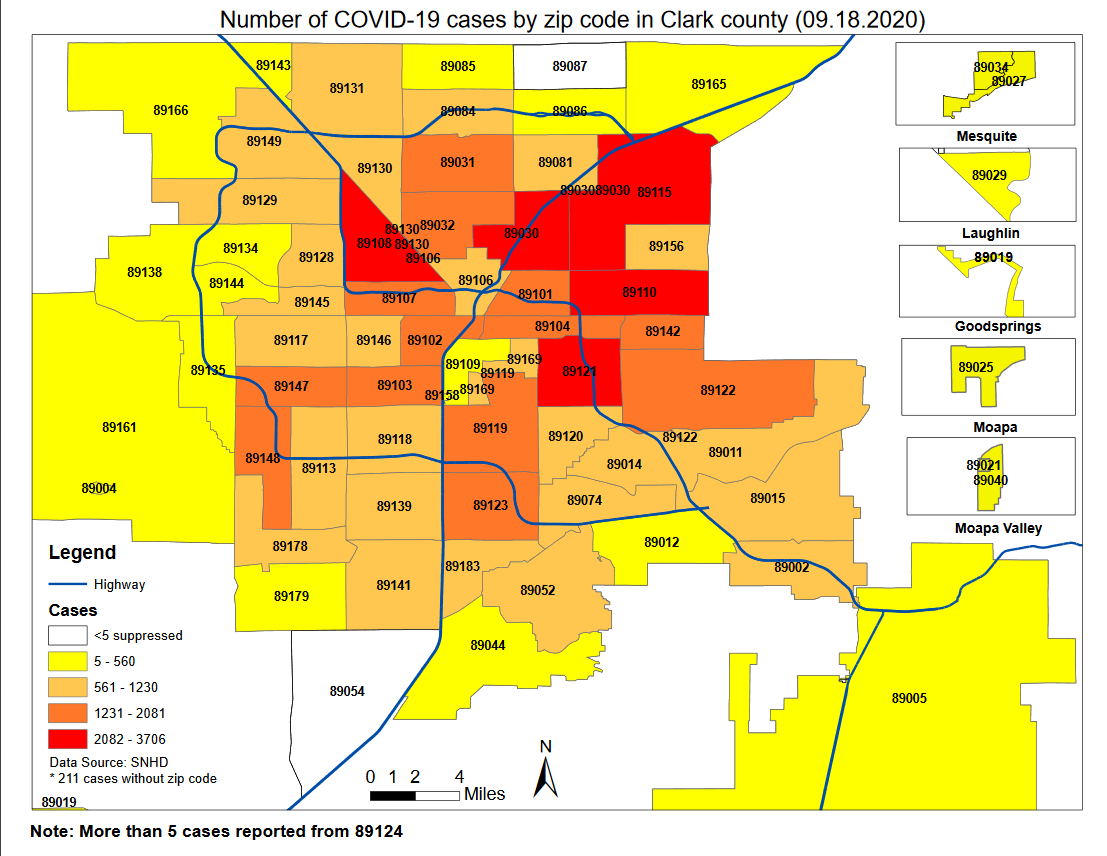
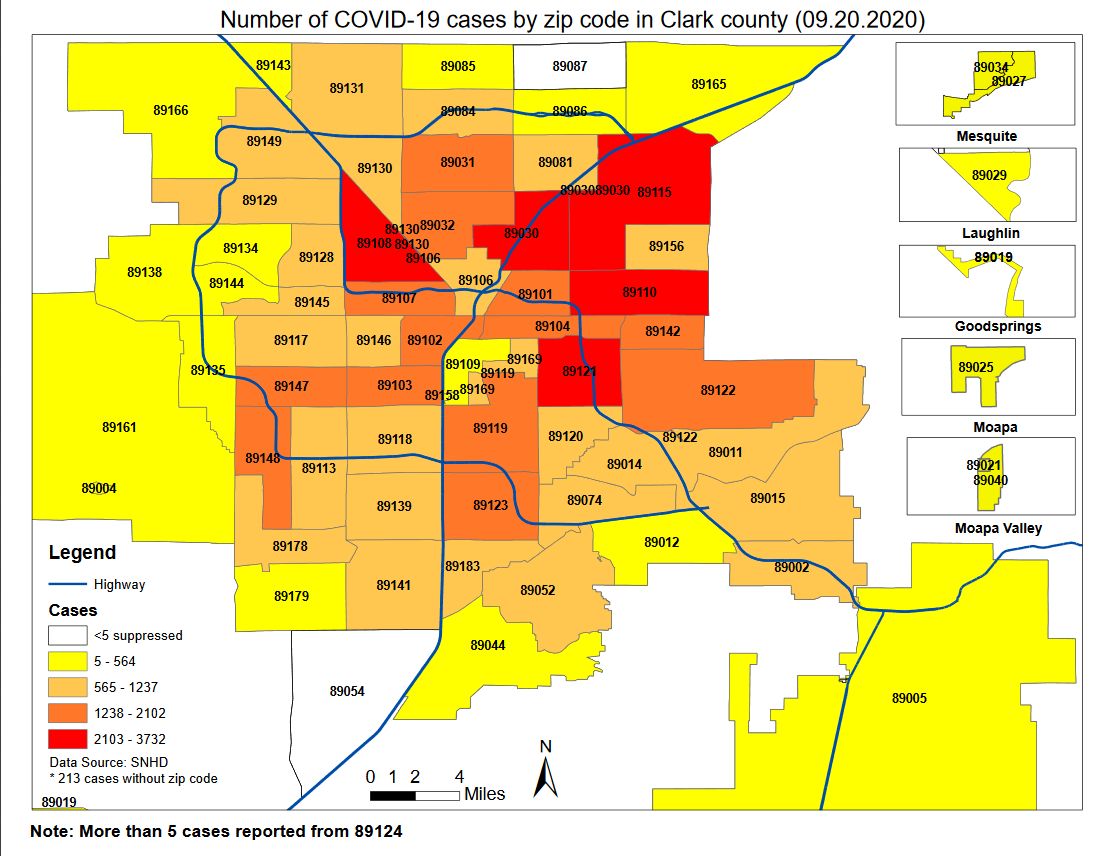
Day 201

diff --git a/src/pages/clarkcounty.js b/src/pages/clarkcounty.js
@@ -217,6 +217,7 @@ class ClarkPage extends Component {
 				'9/17/20',
 				'9/18/20',
 				'9/19/20',
+				'9/20/20',
 			],
 			datasets: [
 				{
@@ -423,6 +424,7 @@ class ClarkPage extends Component {
 						63603,
 						63877,
 						64160,
+						64288,
 					],
 				},
 			],
@@ -630,6 +632,7 @@ class ClarkPage extends Component {
 				'9/17/20',
 				'9/18/20',
 				'9/19/20',
+				'9/20/20',
 			],
 			datasets: [
 				{
@@ -836,6 +839,7 @@ class ClarkPage extends Component {
 						302,
 						274,
 						283,
+						128,
 					],
 				},
 			],
@@ -1023,6 +1027,7 @@ class ClarkPage extends Component {
 				'9/17/20',
 				'9/18/20',
 				'9/19/20',
+				'9/20/20',
 			],
 			datasets: [
 				{
@@ -1209,6 +1214,7 @@ class ClarkPage extends Component {
 						5860,
 						5912,
 						5921,
+						5934,
 					],
 				},
 			],
@@ -1395,6 +1401,7 @@ class ClarkPage extends Component {
 				'9/17/20',
 				'9/18/20',
 				'9/19/20',
+				'9/20/20',
 			],
 			datasets: [
 				{
@@ -1581,6 +1588,7 @@ class ClarkPage extends Component {
 						54,
 						52,
 						9,
+						13,
 					],
 				},
 			],
@@ -1788,6 +1796,7 @@ class ClarkPage extends Component {
 				'9/17/20',
 				'9/18/20',
 				'9/19/20',
+				'9/20/20',
 			],
 			datasets: [
 				{
@@ -1993,6 +2002,7 @@ class ClarkPage extends Component {
 						1325,
 						1327,
 						1329,
+						1328,
 					],
 					backgroundColor: 'maroon',
 				},
@@ -2189,6 +2199,7 @@ class ClarkPage extends Component {
 				'9/17/20',
 				'9/18/20',
 				'9/19/20',
+				'9/20/20',
 			],
 			datasets: [
 				{
@@ -2383,6 +2394,7 @@ class ClarkPage extends Component {
 						16,
 						2,
 						2,
+						-1,
 					],
 				},
 			],
@@ -2590,6 +2602,7 @@ class ClarkPage extends Component {
 				'9/17/20',
 				'9/18/20',
 				'9/19/20',
+				'9/20/20',
 			],
 			datasets: [
 				{
@@ -2795,6 +2808,7 @@ class ClarkPage extends Component {
 						7.3,
 						7.3,
 						7.2,
+						7.2,
 						null,
 						null,
 						null,
@@ -2873,6 +2887,7 @@ class ClarkPage extends Component {
 						null,
 						null,
 						null,
+						6.9,
 						6.9,
 						6.9,
 						6.9,
@@ -3217,6 +3232,7 @@ class ClarkPage extends Component {
 						3.9,
 						3.9,
 						3.9,
+						3.9,
 					],
 				},
 			],
@@ -3227,7 +3243,7 @@ class ClarkPage extends Component {
 			datasets: [
 				{
 					label: 'Age of Cases',
-					data: [1318, 4963, 8211, 30552, 12356, 6459],
+					data: [1328, 5005, 8282, 30728, 12428, 6499],
 					backgroundColor: [
 						'rgb(54, 162, 235)', //blue
 						'rgb(255, 99, 132)', //salmon
@@ -3245,7 +3261,7 @@ class ClarkPage extends Component {
 			datasets: [
 				{
 					label: 'Sex',
-					data: [32686, 30827, 364],
+					data: [32901, 31026, 361],
 					backgroundColor: [
 						'rgb(255, 99, 132)',
 						'rgb(54, 162, 235)',
@@ -3287,8 +3303,8 @@ class ClarkPage extends Component {
 											</div>
 										</div>
 										<div className='card-value pt-4'>
-											<h1>64,160</h1>
-											<h2 className='is_salmon'>+ 283</h2>
+											<h1>64,288</h1>
+											<h2 className='is_salmon'>+ 128</h2>
 										</div>
 									</div>
 								</div>
@@ -3300,8 +3316,8 @@ class ClarkPage extends Component {
 											</div>
 										</div>
 										<div className='card-value pt-4'>
-											<h1>5,921</h1>
-											<h2 className='is_salmon'>+ 9</h2>
+											<h1>5,934</h1>
+											<h2 className='is_salmon'>+ 13</h2>
 										</div>
 									</div>
 								</div>
@@ -3313,7 +3329,7 @@ class ClarkPage extends Component {
 											</div>
 										</div>
 										<div className='card-value pt-4'>
-											<h1>92.8%</h1>
+											<h1>92.7%</h1>
 											<h2 className='is_salmon'>+ 0.0%</h2>
 										</div>
 									</div>
@@ -3326,8 +3342,8 @@ class ClarkPage extends Component {
 											</div>
 										</div>
 										<div className='card-value pt-4'>
-											<h1>1,329</h1>
-											<h2 className='is_salmon'>+ 2</h2>
+											<h1>1,328</h1>
+											<h2 className='is_salmon'>- 1</h2>
 										</div>
 									</div>
 								</div>

diff --git a/src/pages/nevada.js b/src/pages/nevada.js
@@ -215,6 +215,7 @@ class NevadaPage extends Component {
 				'9/17/20',
 				'9/18/20',
 				'9/19/20',
+				'9/20/20',
 			],
 			datasets: [
 				{
@@ -420,6 +421,7 @@ class NevadaPage extends Component {
 						75096,
 						75419,
 						75804,
+						76036,
 					],
 					fill: false, // Don't fill area under the line
 					backgroundColor: '#933A16', // Line color
@@ -628,6 +630,7 @@ class NevadaPage extends Component {
 				'9/17/20',
 				'9/18/20',
 				'9/19/20',
+				'9/20/20',
 			],
 			datasets: [
 				{
@@ -834,6 +837,7 @@ class NevadaPage extends Component {
 						501,
 						323,
 						385,
+						232,
 					],
 					fill: false, // Don't fill area under the line
 					backgroundColor: '#933A16', // Bar color
@@ -1042,6 +1046,7 @@ class NevadaPage extends Component {
 				'9/17/20',
 				'9/18/20',
 				'9/19/20',
+				'9/20/20',
 			],
 			datasets: [
 				{
@@ -1228,24 +1233,25 @@ class NevadaPage extends Component {
 						1362,
 						1373,
 						1389,
-						1396,
-						1411,
-						1419,
-						1437,
-						1442,
-						1449,
-						1459,
-						1469,
-						1478,
-						1485,
-						1493,
+						1395,
+						1410,
+						1418,
+						1436,
+						1441,
+						1448,
+						1458,
+						1467,
+						1477,
+						1484,
+						1492,
 						1495,
-						1500,
-						1509,
-						1512,
-						1519,
-						1526,
-						1531,
+						1499,
+						1508,
+						1511,
+						1518,
+						1525,
+						1530,
+						1530,
 						1531,
 					],
 					backgroundColor: 'maroon',
@@ -1443,6 +1449,7 @@ class NevadaPage extends Component {
 				'9/17/20',
 				'9/18/20',
 				'9/19/20',
+				'9/20/20',
 			],
 			datasets: [
 				{
@@ -1618,25 +1625,26 @@ class NevadaPage extends Component {
 						11,
 						11,
 						16,
-						7,
+						6,
 						15,
 						8,
 						18,
 						5,
 						7,
 						10,
-						10,
 						9,
+						10,
 						7,
 						8,
-						2,
-						5,
+						3,
+						4,
 						9,
 						3,
 						7,
 						7,
 						5,
 						0,
+						1,
 					],
 				},
 			],
@@ -1844,6 +1852,7 @@ class NevadaPage extends Component {
 				'9/17/20',
 				'9/18/20',
 				'9/19/20',
+				'9/20/20',
 			],
 			datasets: [
 				{
@@ -2051,6 +2060,7 @@ class NevadaPage extends Component {
 						10.1,
 						10.0,
 						10.0,
+						10.0,
 						null,
 					],
 				},
@@ -2255,10 +2265,11 @@ class NevadaPage extends Component {
 						7.0,
 						6.8,
 						6.9,
-						6.9,
+						6.8,
 						6.7,
-						6.7,
-						7.2,
+						6.8,
+						7.1,
+						7.0,
 						null,
 					],
 				},
@@ -2336,6 +2347,7 @@ class NevadaPage extends Component {
 						null,
 						null,
 						null,
+						11.0,
 						11.0,
 						11.0,
 						11.0,
@@ -2678,6 +2690,7 @@ class NevadaPage extends Component {
 						6.1,
 						6.1,
 						6.1,
+						6.1,
 					],
 				},
 			],
@@ -2713,8 +2726,8 @@ class NevadaPage extends Component {
 										</div>
 									</div>
 									<div className='card-value pt-4'>
-										<h1>664,479</h1>
-										<h2 className='is_salmon'>+ 4,507</h2>
+										<h1>666,062</h1>
+										<h2 className='is_salmon'>+ 1,583</h2>
 									</div>
 								</div>
 							</div>
@@ -2726,8 +2739,8 @@ class NevadaPage extends Component {
 										</div>
 									</div>
 									<div className='card-value pt-4'>
-										<h1>589,380</h1>
-										<h2 className='is_salmon'>+ 4,113</h2>
+										<h1>590,756</h1>
+										<h2 className='is_salmon'>+ 1,376</h2>
 									</div>
 								</div>
 							</div>
@@ -2739,8 +2752,8 @@ class NevadaPage extends Component {
 										</div>
 									</div>
 									<div className='card-value pt-4'>
-										<h1>75,804</h1>
-										<h2 className='is_salmon'>+ 385</h2>
+										<h1>76,036</h1>
+										<h2 className='is_salmon'>+ 232</h2>
 									</div>
 								</div>
 							</div>
@@ -2753,7 +2766,7 @@ class NevadaPage extends Component {
 									</div>
 									<div className='card-value pt-4'>
 										<h1>1,531</h1>
-										<h2 className='is_salmon'>+ 3</h2>
+										<h2 className='is_salmon'>+ 0</h2>
 									</div>
 								</div>
 							</div>
